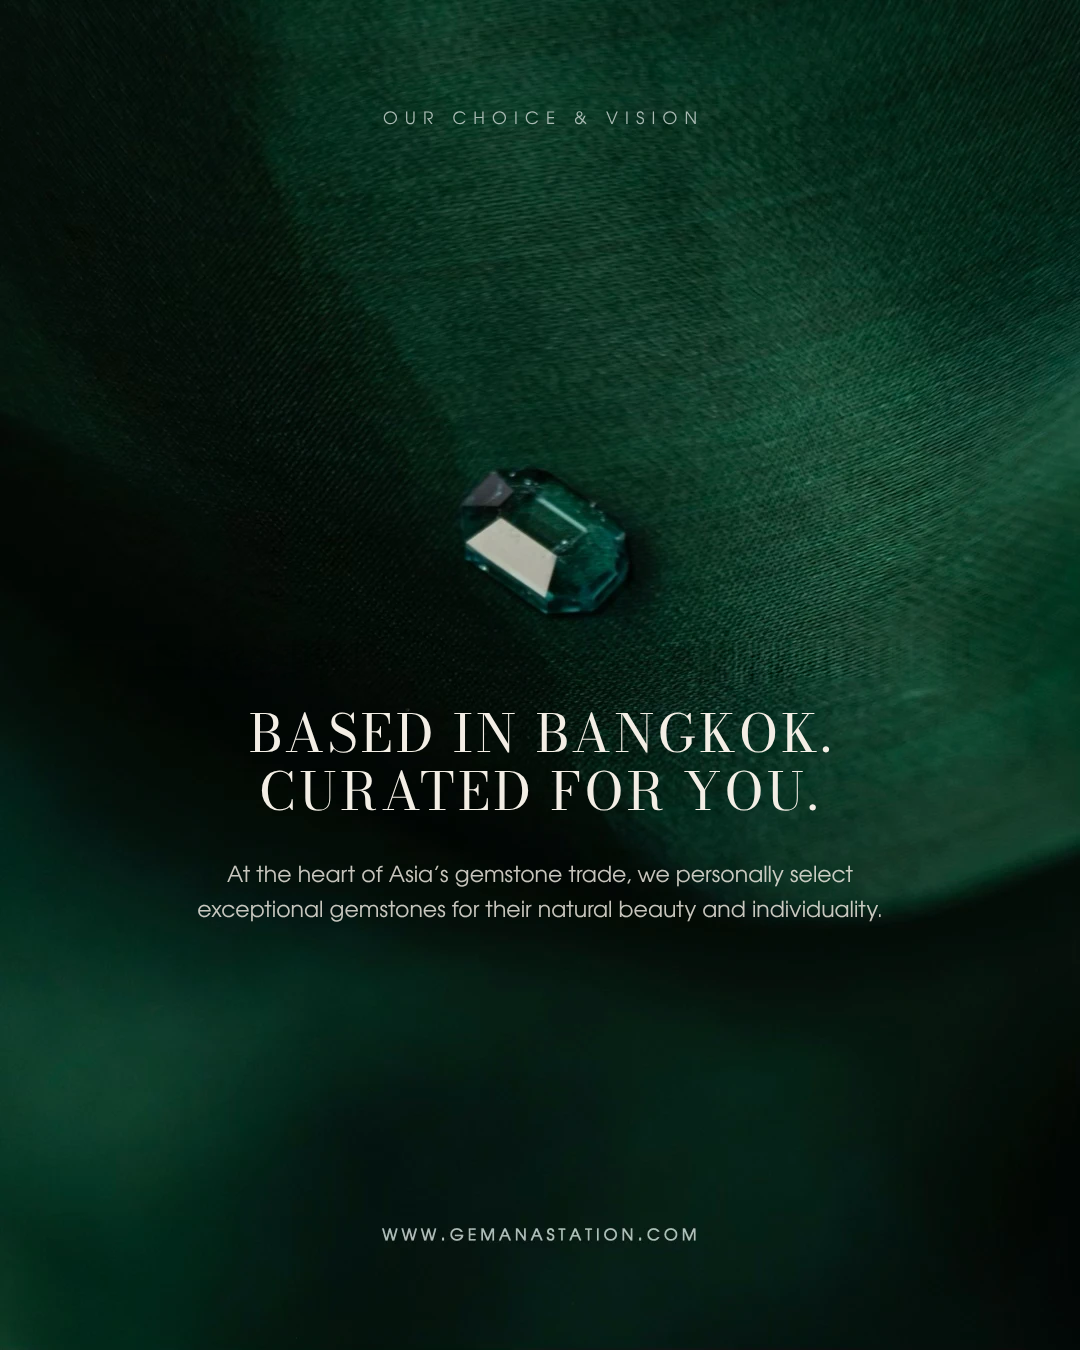
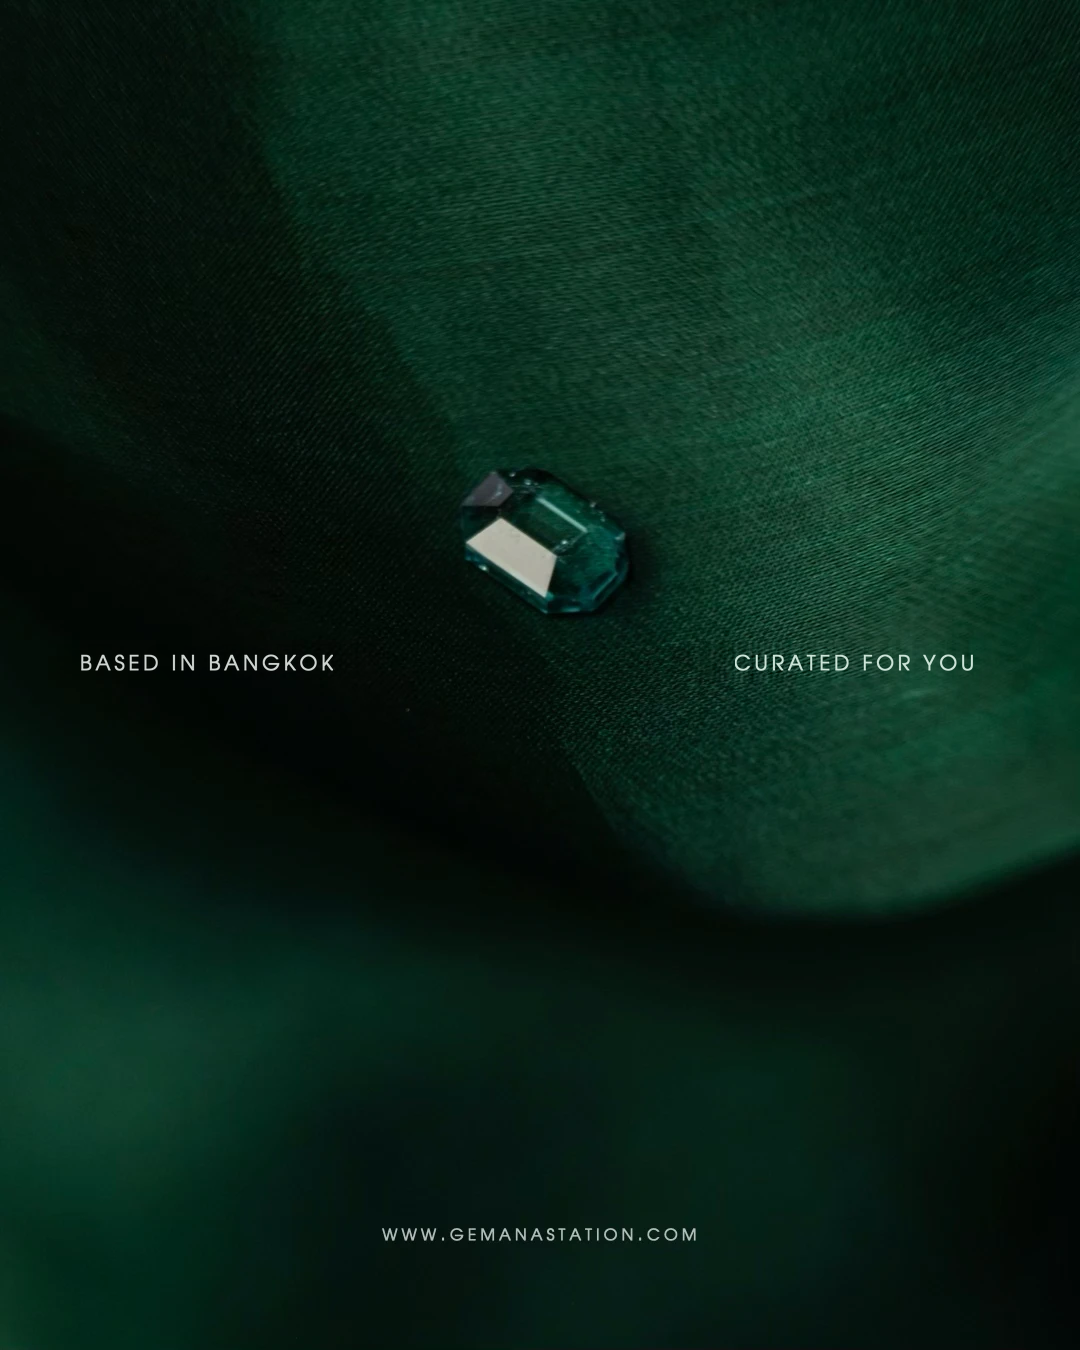
Our Choice & Vision: edit of the supplied layout, only the two captions replaced
Same face, size, tracking, weight, colour and edges as the original
captions (calibrated against them); everything else is original pixels.

Claude-Session: https://claude.ai/code/session_01DPJpbdE4xE8Jg3JGMEEyZy

diff --git a/gem-anastation-reels/posts/our_choice_vision/calib.html b/gem-anastation-reels/posts/our_choice_vision/calib.html
@@ -1,0 +1,1 @@
+<!doctype html><style>@font-face{font-family:AG;src:url(../../founder/fonts/URWGothic-Book.otf)}</style><canvas id=c width=1200 height=200></canvas>

diff --git a/gem-anastation-reels/posts/our_choice_vision/edit.py b/gem-anastation-reels/posts/our_choice_vision/edit.py
@@ -1,0 +1,61 @@
+"""Edit of the supplied emerald layout: only the two centre captions change.
+CREATED BY NATURE -> BASED IN BANGKOK (left edge kept at x = 81)
+CURATED BY EXPERT -> CURATED FOR YOU  (right edge kept at x = 972)
+Same face (URW Gothic = AvantGarde), 20.5 px, tracking 3.8 px, cap top y = 654,
+and each caption's own colour — all measured from the original (calibrate.mjs
+reproduces the original ink boxes to 1 px). Background under the old captions:
+build/base.png (clean.py). Everything else is the original pixels.
+Usage: python3 clean.py && python3 edit.py
+"""
+import numpy as np
+import sys
+
+from PIL import Image, ImageDraw, ImageFilter, ImageFont
+
+FONT = ImageFont.truetype("../../founder/fonts/URWGothic-Book.otf", 20.5)
+TRACK, CAP_TOP = 3.8, 654
+WEIGHT = int(sys.argv[1]) if len(sys.argv) > 1 else 1
+CAPS = [("BASED IN BANGKOK", "left", 81, (207, 213, 209)),
+        ("CURATED FOR YOU", "right", 972, (203, 228, 215))]
+
+
+def ink(text, weight=WEIGHT):
+    """Antialiased coverage of tracked text, cropped to its ink box. Drawn at 4x
+    and thickened by `weight` (4x px) so the stroke weight matches the
+    original captions' measured ink (their rendering is slightly heavier)."""
+    S = 4
+    big = ImageFont.truetype(FONT.path, FONT.size * S)
+    w = int(sum(FONT.getlength(c) + TRACK for c in text) * S) + 160
+    m = Image.new("L", (w, 240), 0)
+    d = ImageDraw.Draw(m)
+    x = 40.0
+    for c in text:
+        d.text((x, 40), c, font=big, fill=255)
+        x += (FONT.getlength(c) + TRACK) * S
+    if weight:
+        m = m.filter(ImageFilter.MaxFilter(2 * weight + 1))
+    m = m.resize((m.width // S, m.height // S), Image.LANCZOS)
+    a = np.asarray(m).astype(np.float32) / 255
+    ys, xs = np.nonzero(a > 0.47)
+    return a[ys.min():ys.max() + 1, xs.min():xs.max() + 1], ys.min()
+
+
+if __name__ == "__main__":
+    for old, w in (("CREATED BY NATURE", 258), ("CURATED BY EXPERT", 253)):
+        print(f"check {old}: ink width {ink(old)[0].shape[1] - 1} (original {w})")
+    orig = np.asarray(Image.open("sources/emerald_layout.webp").convert("RGB")).astype(np.float32)
+    out = np.asarray(Image.open("build/base.png").convert("RGB")).astype(np.float32).copy()
+    # keep the original everywhere except the two cleaned caption strips
+    keep = np.ones(out.shape[:2], bool)
+    keep[644:680, 56:366] = False
+    keep[644:680, 694:1000] = False
+    out[keep] = orig[keep]
+    for text, align, x_edge, col in CAPS:
+        a, _ = ink(text)
+        h, w = a.shape
+        x0 = x_edge if align == "left" else x_edge - w + 1
+        reg = out[CAP_TOP:CAP_TOP + h, x0:x0 + w]
+        out[CAP_TOP:CAP_TOP + h, x0:x0 + w] = reg * (1 - a[..., None]) + np.array(col) * a[..., None]
+        print(f"{text}: x {x0}-{x0 + w - 1}, y {CAP_TOP}-{CAP_TOP + h - 1}")
+    Image.fromarray(out.clip(0, 255).round().astype(np.uint8)).save("output/GA_OurChoiceVision.png")
+    print("written output/GA_OurChoiceVision.png")
